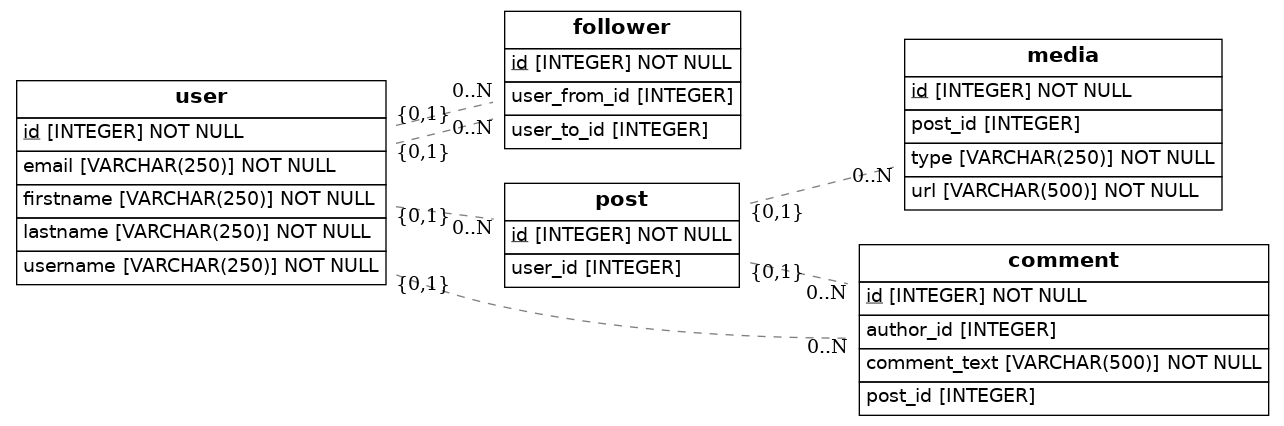
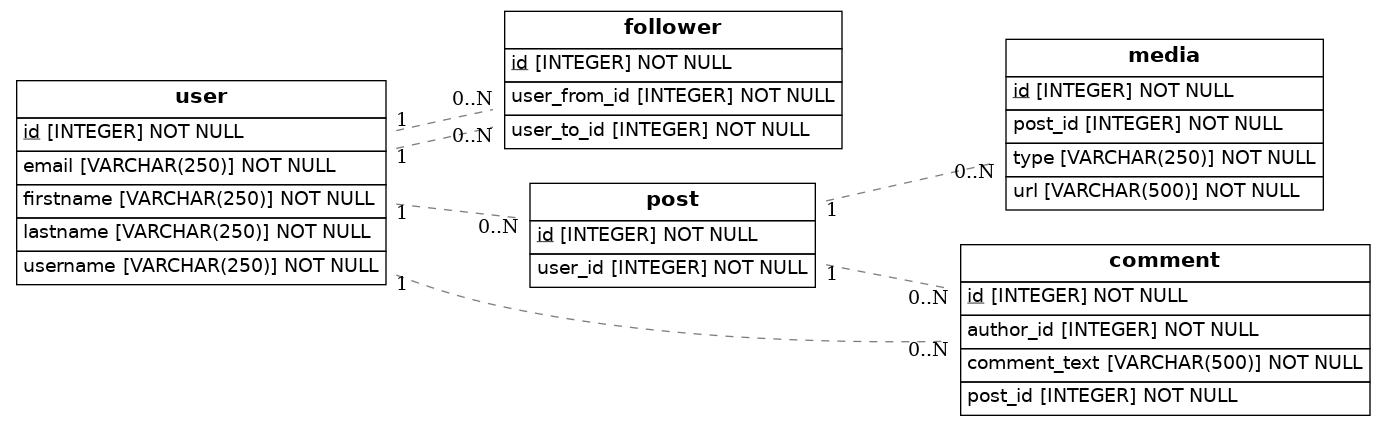
Second commit

diff --git a/src/models.py b/src/models.py
@@ -22,9 +22,9 @@ class Follower(Base):
     # Here we define columns for the table address.
     # Notice that each column is also a normal Python instance attribute.
     id = Column(Integer, primary_key=True)
-    user_from_id = Column(Integer, ForeignKey('user.id'))
+    user_from_id = Column(Integer, ForeignKey('user.id'), nullable=False)
     user = relationship(User)
-    user_to_id = Column(Integer, ForeignKey('user.id'))
+    user_to_id = Column(Integer, ForeignKey('user.id'), nullable=False)
 
     def to_dict(self):
         return {}
@@ -34,7 +34,7 @@ class Post(Base):
     # Here we define columns for the table address.
     # Notice that each column is also a normal Python instance attribute.
     id = Column(Integer, primary_key=True)
-    user_id = Column(Integer, ForeignKey('user.id'))
+    user_id = Column(Integer, ForeignKey('user.id'), nullable=False)
     user = relationship(User)
 
     def to_dict(self):
@@ -46,9 +46,9 @@ class Comment(Base):
     # Notice that each column is also a normal Python instance attribute.
     id = Column(Integer, primary_key=True)
     comment_text = Column(String(500), nullable=False)
-    author_id = Column(Integer, ForeignKey('user.id'))
+    author_id = Column(Integer, ForeignKey('user.id'), nullable=False)
     user = relationship(User)
-    post_id = Column(Integer, ForeignKey('post.id'))
+    post_id = Column(Integer, ForeignKey('post.id'), nullable=False)
 
     def to_dict(self):
         return {}
@@ -60,7 +60,7 @@ class Media(Base):
     id = Column(Integer, primary_key=True)
     type = Column(String(250), nullable=False)
     url = Column(String(500), nullable=False)
-    post_id = Column(Integer, ForeignKey('post.id'))
+    post_id = Column(Integer, ForeignKey('post.id'), nullable=False)
     user = relationship(Post)
 
     def to_dict(self):
